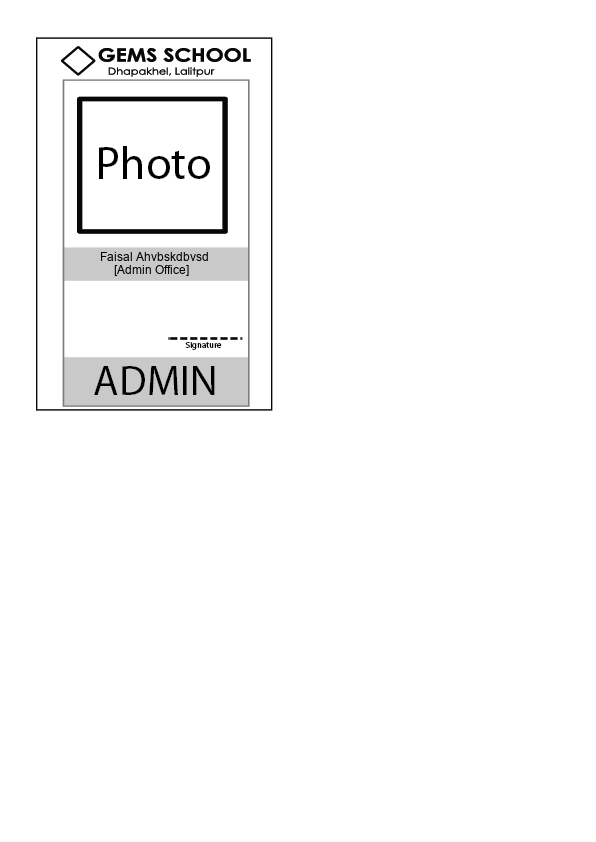
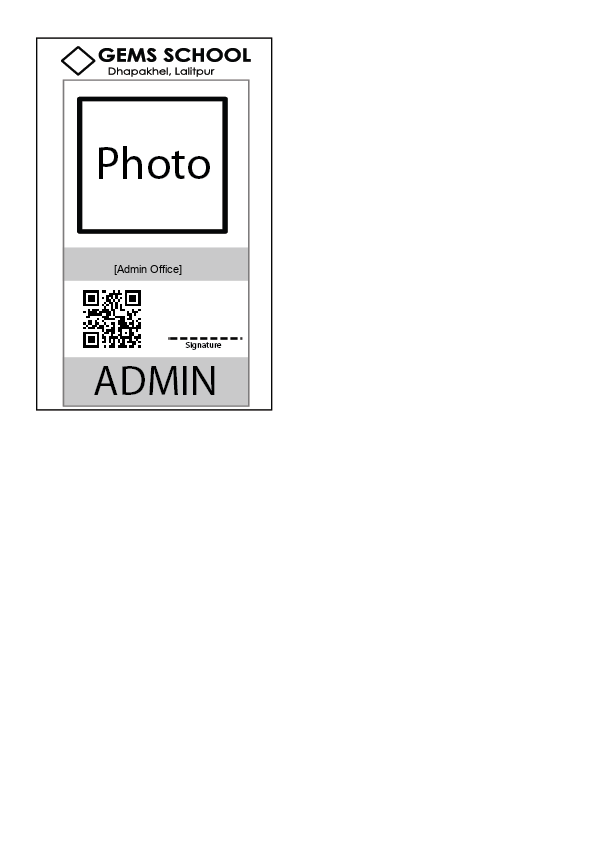
fixed preview

Changed region(s): [[0.1208, 0.2779, 0.3322, 0.4323]]

diff --git a/app.py b/app.py
@@ -13,7 +13,7 @@ import log
 app = Flask(__name__)
 app.config['SEND_FILE_MAX_AGE_DEFAULT'] = 0
 backwardlines = list
-codeSize = (96, 96)
+codeSize = (76, 76)
 busNoFont = ImageFont.truetype('arial.ttf', 50)
 font = ImageFont.truetype('arial.ttf', 11)
 token = 500
@@ -39,7 +39,7 @@ def makeStudentID(name, code, qrcode, bno, faculty, bstop, cell):
     draw.text((100, 287), cell, (0, 0, 0), font=font)
     draw.text((118, 313), "August 2050", (0, 0, 0), font=font)
 
-    image.paste(qrcode, (59, 298))
+    image.paste(qrcode, (74, 326))
 
     image.save('static/studentSave.png')
 
@@ -75,7 +75,7 @@ def makeTeacherID(name, qrcode, faculty):
 
     draw.text((114, 263), faculty, (0, 0, 0), font=font)
 
-    image.paste(qrcode, (58, 254))
+    image.paste(qrcode, (74, 281))
 
     image.save('static/teacherSave.png')
 
@@ -110,7 +110,7 @@ def makeAdminID(name, qrcode):
         draw.text((width, height), name, (0, 0, 0), font=font)
     draw.text((114, 263), "[Admin Office]", (0, 0, 0), font=font)
 
-    image.paste(qrcode, (58, 254))
+    image.paste(qrcode, (74, 281))
 
     image.save('static/adminSave.png')
 
@@ -921,7 +921,7 @@ def orderdata():
                 code.append(finalarray[i][0])
 
         with open('canteentoken.txt', 'w') as file:
-            ctr = 1 
+            ctr = 1
             file.truncate(0)
 
         with open('canteentoken.txt', 'a+') as file:
